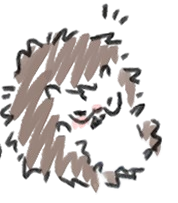
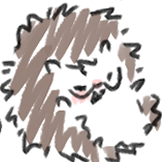
배경 수정 [그림자]

diff --git a/src/app/globals.css b/src/app/globals.css
@@ -14,6 +14,11 @@ body {
 
 .border-radius {
   border-radius: 10px;
+  box-shadow: 0px 0px 10px 5px #62b0cb;
+}
+
+.border-radius img {
+  box-shadow: inset 0px 0px 15px 5px #62b0cb;
 }
 
 footer {
